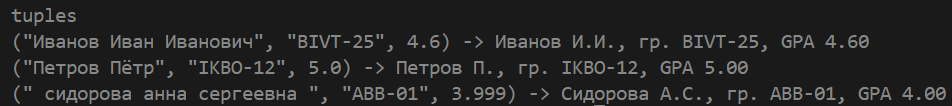
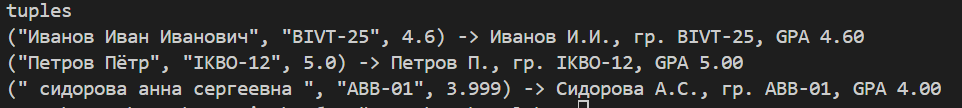
done

diff --git a/src/lab02/tuples.py b/src/lab02/tuples.py
@@ -12,4 +12,7 @@ def format_record(rec: tuple[str, str, float]) -> str:
         return f"{n1.capitalize()} {n2[0].upper()}., гр. {rec[1].upper()}, GPA {rec[2]:.2f}"
     else:
         raise ValueError
-print(f'format_record\n[("Иванов Иван Иванович", "BIVT-25", 4.6)] -> {format_record([("Иванов Иван Иванович", "BIVT-25", 4.6)])}\n[("Петров Пётр", "IKBO-12", 5.0)] -> {format_record([("Петров Пётр", "IKBO-12", 5.0)])}\n[("Петров Пётр Петрович", "IKBO-12", 5.0)] -> {format_record([("Петров Пётр Петрович", "IKBO-12", 5.0)])}\n[("  сидорова  анна   сергеевна ", "ABB-01", 3.999)] -> {format_record([("  сидорова  анна   сергеевна ", "ABB-01", 3.999)])}')
+print('tuples')
+print("(\"Иванов Иван Иванович\", \"BIVT-25\", 4.6) ->", format_record(("Иванов Иван Иванович", "BIVT-25", 4.6)))
+print("(\"Петров Пётр\", \"IKBO-12\", 5.0) ->", format_record(("Петров Пётр", "IKBO-12", 5.0)))
+print("(\" сидорова анна сергеевна \", \"ABB-01\", 3.999) ->", format_record((" сидорова анна сергеевна ", "ABB-01", 3.999)))

diff --git a/README.md b/README.md
@@ -83,6 +83,9 @@ def format_record(rec: tuple[str, str, float]) -> str:
         return f"{n1.capitalize()} {n2[0].upper()}., гр. {rec[1].upper()}, GPA {rec[2]:.2f}"  
     else:  
         raise ValueError  
-print(f'format_record\n[("Иванов Иван Иванович", "BIVT-25", 4.6)] -> {format_record([("Иванов Иван Иванович", "BIVT-25", 4.6)])}\n[("Петров Пётр", "IKBO-12", 5.0)] -> {format_record([("Петров Пётр", "IKBO-12", 5.0)])}\n[("Петров Пётр Петрович", "IKBO-12", 5.0)] -> {format_record([("Петров Пётр Петрович", "IKBO-12", 5.0)])}\n[("  сидорова  анна   сергеевна ", "ABB-01", 3.999)] -> {format_record([("  сидорова  анна   сергеевна ", "ABB-01", 3.999)])}')  
+print('tuples')  
+print("(\"Иванов Иван Иванович\", \"BIVT-25\", 4.6) ->", format_record(("Иванов Иван Иванович", "BIVT-25", 4.6)))  
+print("(\"Петров Пётр\", \"IKBO-12\", 5.0) ->", format_record(("Петров Пётр", "IKBO-12", 5.0)))  
+print("(\" сидорова анна сергеевна \", \"ABB-01\", 3.999) ->", format_record((" сидорова анна сергеевна ", "ABB-01", 3.999)))  
 ```
 ![](images/lab02/tuples.jpg)
